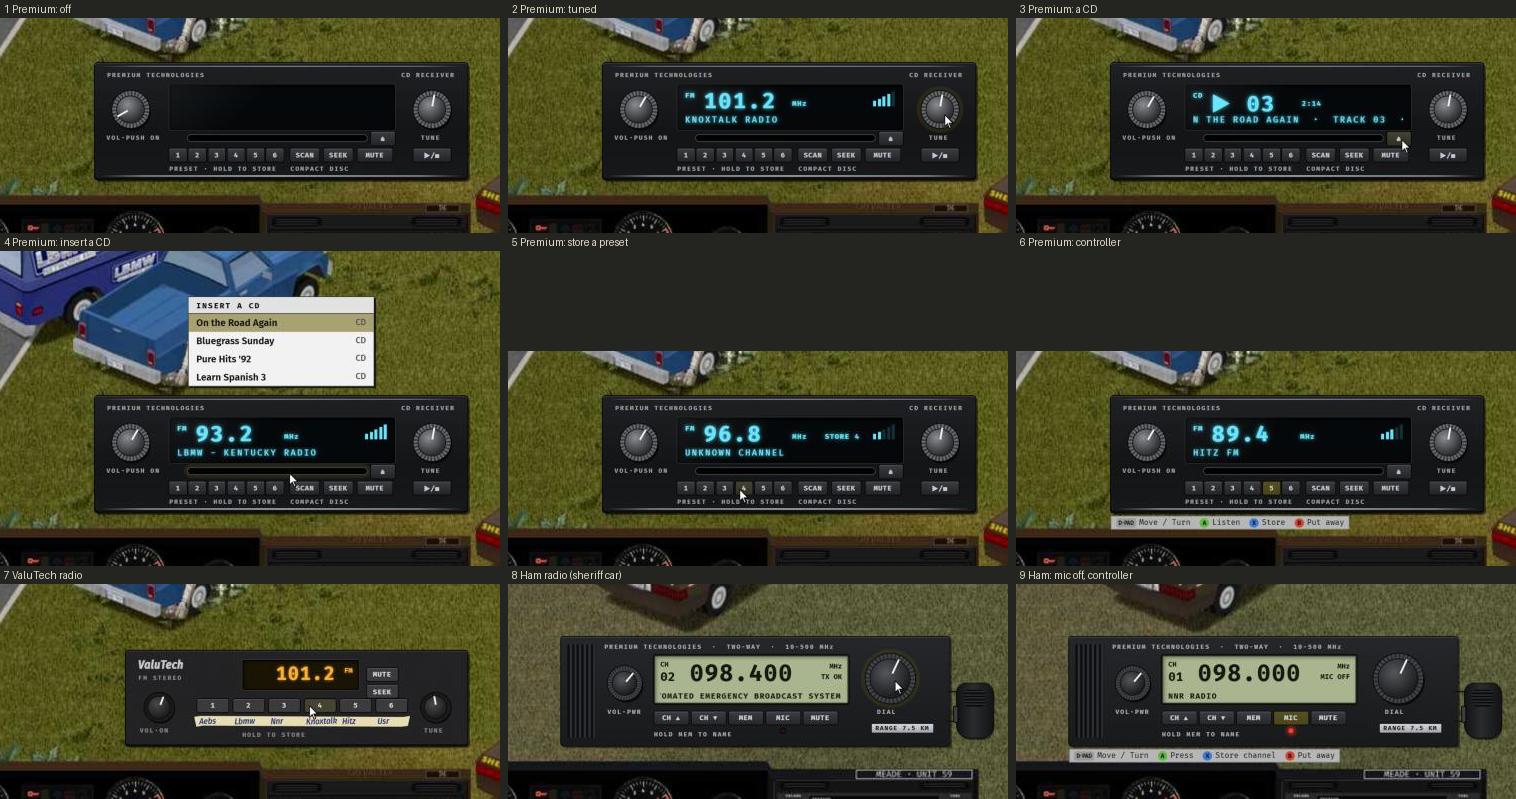
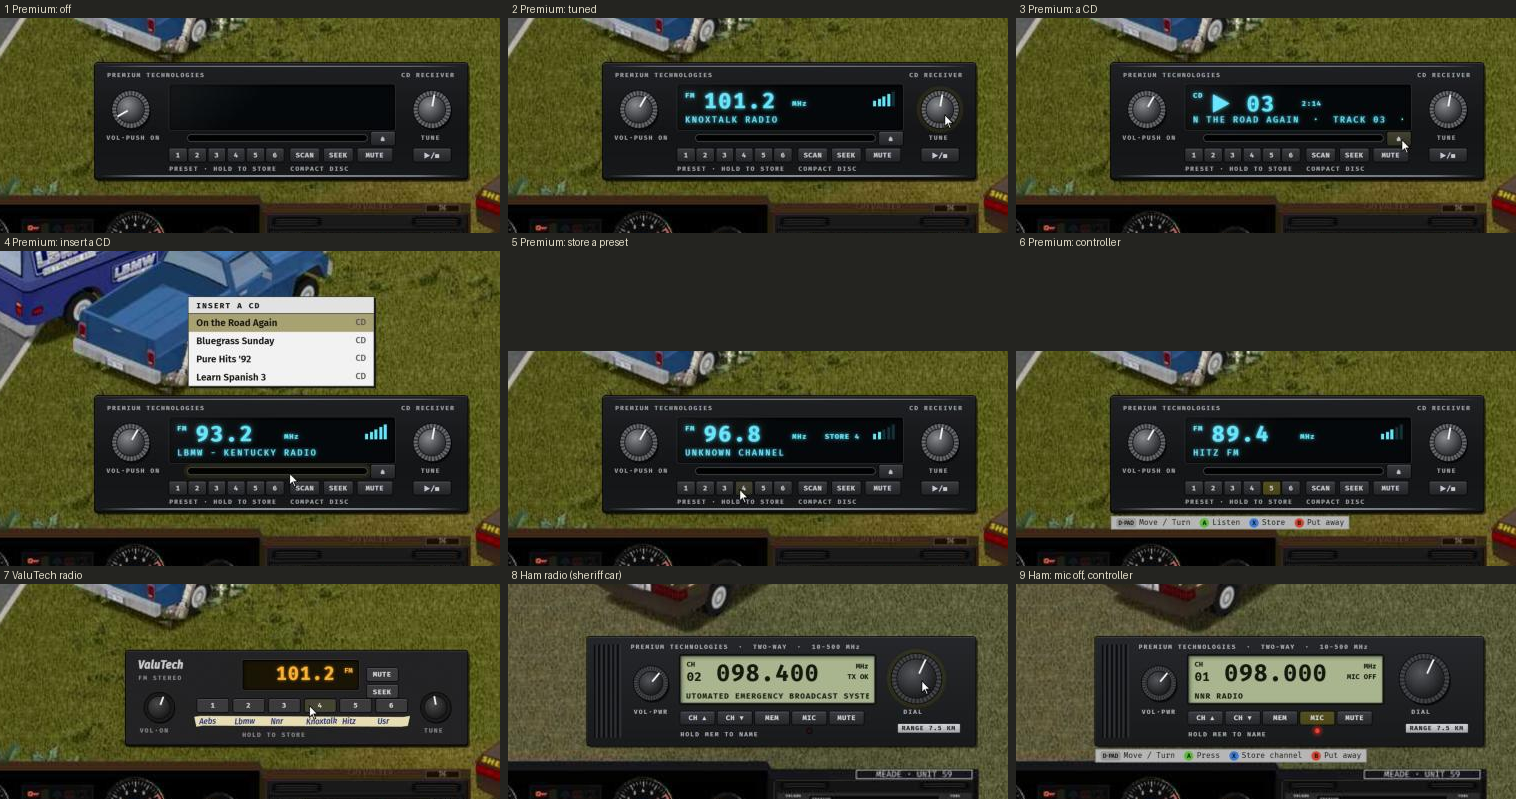
Car radio mockup: no hand mic on the ham rig
Director: "lose the handset/mic". The rig now sits on the dash console's
right edge like the other radios; the MIC switch stays.

Changed region(s): [[0.372, 0.781, 0.9921, 0.9612]]

diff --git a/ZeDUI/mockups/zed_car_radio_v1.html b/ZeDUI/mockups/zed_car_radio_v1.html
@@ -107,9 +107,6 @@ h1 { font-family:var(--cond); font-weight:600; font-size:24px; color:#f0ece0; ma
 .sticker { position:absolute; padding:1px 5px; background:linear-gradient(#d6d9dc, #a3a7ab); color:#1a1a1a; font-family:var(--mono); font-weight:700; font-size:8px; letter-spacing:1px; border-radius:1px; }
 .led { position:absolute; width:6px; height:6px; border-radius:50%; background:#2a1212; box-shadow:0 0 0 1px #050505; }
 .led.red { background:#ff3b2e; box-shadow:0 0 5px 2px rgba(255,59,46,.7), 0 0 0 1px #050505; }
-.mic { position:absolute; width:46px; height:70px; border-radius:12px 12px 16px 16px; background:linear-gradient(90deg, #121314, #2a2c2f 45%, #141516); box-shadow:0 0 0 1px #000, 2px 3px 0 rgba(0,0,0,.5); }
-.mic::before { content:""; position:absolute; left:9px; right:9px; top:8px; height:22px; border-radius:6px; background:repeating-linear-gradient(0deg, #0b0b0c 0 2px, #2c2e31 2px 4px); }
-.mic::after { content:""; position:absolute; left:-4px; top:30px; width:5px; height:20px; border-radius:2px; background:#3a3d41; box-shadow:0 0 0 1px #000; }
 
 /* the pick list (the belt's list look): paper, ink edge, step shadow */
 .plist { position:absolute; background:var(--paper); border:1px solid var(--ink); box-shadow:2px 2px 0 0 var(--ink); font-family:var(--sans); color:#111; }
@@ -155,7 +152,7 @@ h1 { font-family:var(--cond); font-weight:600; font-size:24px; color:#f0ece0; ma
       <li><span class="alt">YOUR CALL</span><b>The dash's own head unit could follow the fitted radio too.</b> Today each car's console draws its own make (ValuTech in the trucks, Premium in the fleet cars), whatever radio is fitted. Swapping the console's head unit for the fitted radio's face (small) would make the dash and the close-up match.</li>
       <li><span class="rec">RECOMMEND</span><b>Every vanilla control, as hardware.</b> Push the VOL knob for power, turn it for volume; MUTE; turn TUNE; SEEK jumps to the next station; SCAN stops on each for a moment. Presets: press to listen, <b>hold to store</b> (printed under the buttons, as real ones were); the first six of vanilla's presets are the six buttons. The display gives the frequency, the signal and the station's name (vanilla's channel name). With no power (a flat battery) the display stays dark and nothing answers; the dash's battery shows why.</li>
       <li><span class="rec">RECOMMEND</span><b>CDs.</b> Click the empty slot: a short list of the CDs you carry; pick one and it goes in (vanilla's own action). EJECT puts it back in your inventory; PLAY / STOP plays it. The display shows the disc and the track.</li>
-      <li><span class="rec">RECOMMEND</span><b>Two-way sets keep vanilla's extras.</b> The wide band (10 to 500 MHz) on a big dial, every stored channel on CH up and down (a ham set holds more than six), MEM stores the frequency as a new channel, holding MEM names it or forgets it (the ZeD text prompt), MIC mutes the microphone (its red lamp says so), and the range is printed on the set. The hand mic hangs off the side.</li>
+      <li><span class="rec">RECOMMEND</span><b>Two-way sets keep vanilla's extras.</b> The wide band (10 to 500 MHz) on a big dial, every stored channel on CH up and down (a ham set holds more than six), MEM stores the frequency as a new channel, holding MEM names it or forgets it (the ZeD text prompt), MIC mutes the microphone (its red lamp says so), and the range is printed on the set.</li>
       <li><b>Controller:</b> the D-pad walks the controls (left and right along a row, up and down between rows); on a knob, up and down turn it; A presses; on a preset, A listens and X stores; B puts the radio away. The strip under it says so.</li>
     </ol>
   </div>
@@ -298,7 +295,7 @@ function valutech(stage, S) {
 // ---- Premium Technologies Ham Radio -----------------------------------------
 function ham(stage, S) {
   const st = S.st;
-  const W = 500, H = 140, X = RIGHT - W - 34, Y = BOTTOM - H;
+  const W = 500, H = 140, X = RIGHT - W, Y = BOTTOM - H;
   const u = el("div", "unit ham", `left:${X}px;top:${Y}px`);
   u.appendChild(el("div", "fins"));
   u.appendChild(el("span", "print", "left:56px;top:8px", "PREMIUM TECHNOLOGIES &nbsp;·&nbsp; TWO-WAY &nbsp;·&nbsp; 10-500 MHz"));
@@ -326,10 +323,6 @@ function ham(stage, S) {
   u.appendChild(el("span", "print", "left:120px;top:121px", "HOLD MEM TO NAME"));
   u.appendChild(el("span", "sticker", "left:400px;top:112px", "RANGE 7.5 KM"));
   stage.appendChild(u);
-  // the hand mic on its cord
-  const cord = el("div", "", `position:absolute;left:${X + W - 4}px;top:${Y + 70}px;width:40px;height:40px;border:2px solid #111;border-left:none;border-radius:0 20px 20px 0`);
-  stage.appendChild(cord);
-  stage.appendChild(el("div", "mic", `left:${X + W + 10}px;top:${Y + 60}px`));
   if (st.hover === "dial") ptrAt(u, 430, 56);
   if (S.st.pad) padStrip(stage, X, Y + H + 4,
     `<span><span class="glyph g-t">D-PAD</span>Move / Turn</span><span><span class="glyph g-a">A</span>Press</span><span><span class="glyph g-x">X</span>Store channel</span><span><span class="glyph g-b">B</span>Put away</span>`);

diff --git a/ZeDUI/deltas/SESSION_125_DELTA.md b/ZeDUI/deltas/SESSION_125_DELTA.md
@@ -463,5 +463,5 @@ Wired in from the two design handoffs (`ZeDUI/tools/buckles/README.md`, `ZeDUI/t
 
 Mockup `ZeDUI/mockups/zed_car_radio_v1.html` (nine scenes over real 1080p captures on the ZeD-QA save; Look: Vanilla shows vanilla's Device Options window captured live). Awaiting approval; HOOK_MAP row 4.
 - Vanilla: the wheel's Device Options slice (front seats only) calls `ISVehicleMenu.onSignalDevice` -> `ISRadioWindow.activate(player, radioPart)`: General (channel name, frequency, range, two way), Power, Signal, Volume (mute + ten steps), Media (a CD deck when the radio takes one), Channel (vanilla's preset list: tune in, add, edit, remove), Microphone on two-way sets. Every action is a vanilla timed action (`ISRadioAction` ToggleOnOff / SetChannel / SetVolume / MuteVolume / TogglePlayMedia / MuteMicrophone, `ISDeviceMediaAction`). Car radios are vanilla's own radio items fitted to the Radio part: ValuTech Radio, Premium Technologies Radio (takes CDs), Makeshift Radio; police cars and radio vans carry a ham radio (Premium Technologies, US ARMY COMM., makeshift; 10-500 MHz, two way). The pickup's radio came with six named stations preset.
-- The design: the fitted radio itself, up close above the dash where the siren controller sits (one up-close prop at a time), a face per radio item. Shown: the Premium Technologies CD receiver (cyan display with frequency, signal and the station name; VOL push-on, TUNE, SCAN, SEEK, MUTE, six presets "hold to store", the CD slot with a pick list of the CDs you carry, EJECT, PLAY / STOP), the ValuTech budget radio (amber digits only, presets labelled by hand on masking tape), the Premium Technologies ham rig (big dial, CH up / down over every stored channel, MEM, hold MEM to name, MIC with its red lamp, MUTE, the range printed on it, the hand mic on its cord). Controller: the D-pad walks the controls and turns knobs, A presses, X stores, B puts it away. Your call: the dash's own head unit could follow the fitted radio too.
+- The design: the fitted radio itself, up close above the dash where the siren controller sits (one up-close prop at a time), a face per radio item. Shown: the Premium Technologies CD receiver (cyan display with frequency, signal and the station name; VOL push-on, TUNE, SCAN, SEEK, MUTE, six presets "hold to store", the CD slot with a pick list of the CDs you carry, EJECT, PLAY / STOP), the ValuTech budget radio (amber digits only, presets labelled by hand on masking tape), the Premium Technologies ham rig (big dial, CH up / down over every stored channel, MEM, hold MEM to name, MIC with its red lamp, MUTE, the range printed on it; director: "lose the handset/mic", so no hand mic on the rig). Controller: the D-pad walks the controls and turns knobs, A presses, X stores, B puts it away. Your call: the dash's own head unit could follow the fitted radio too.
 
